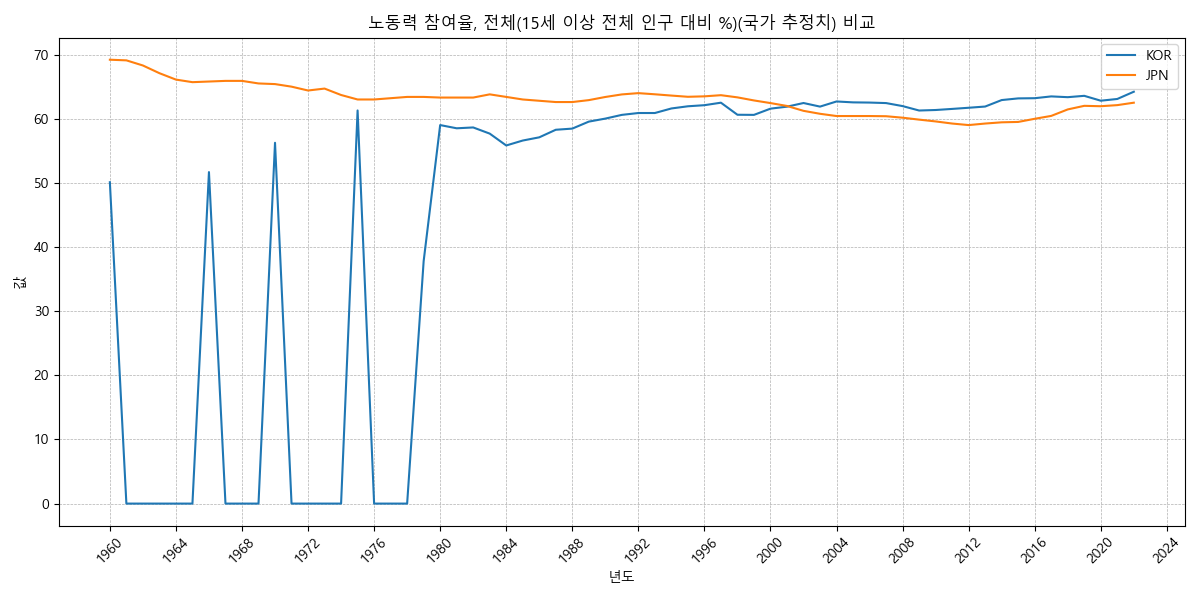
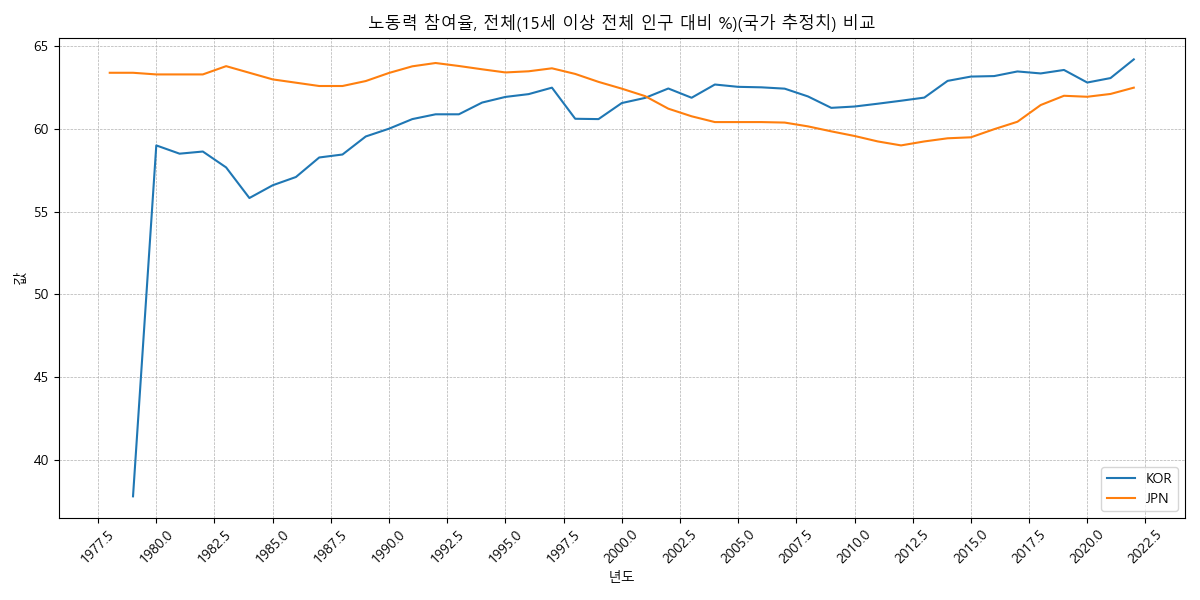
Data_Pretreatment

diff --git a/Data_Pretreatment.py b/Data_Pretreatment.py
@@ -42,6 +42,15 @@ def create_indicator_df(kor_data, jpn_data):
         last_nonzero_index_jpn = next((i for i, value in enumerate(reversed(jpn_values)) if value != 0), len(jpn_values))
         last_nonzero_index = max(last_nonzero_index_kor, last_nonzero_index_jpn)
 
+        for i in range(first_nonzero_index, len(kor_values) - last_nonzero_index):
+            if kor_values[i] == 0:
+                kor_values[i] = None        
+                first_nonzero_index = i
+            if jpn_values[i] == 0:
+                jpn_values[i] = None
+                first_nonzero_index = i
+
+
         # 0이 아닌 값부터 데이터 저장, 마지막 0 제거
         if last_nonzero_index != 0:
             combined_data[indicator]['Year'] = years[first_nonzero_index:len(years) - last_nonzero_index]
